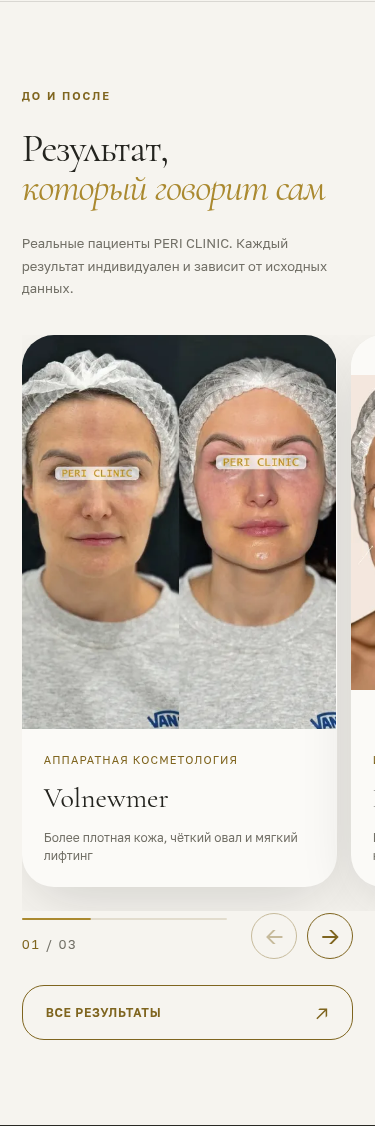
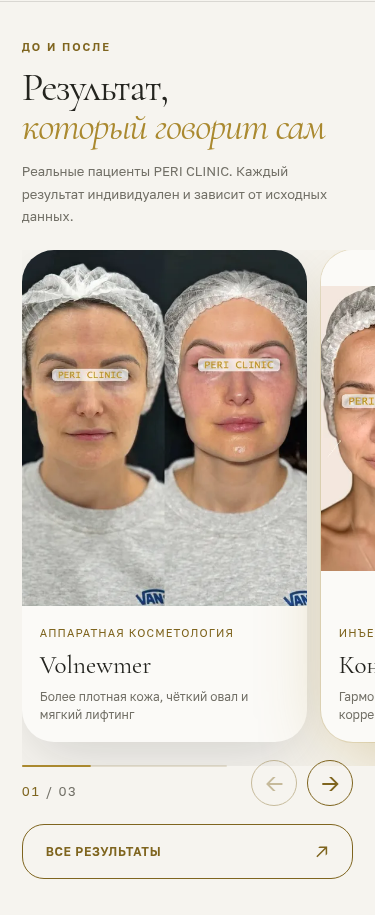
fix: compact mobile results cards and section spacing

diff --git a/docs/superpowers/specs/2026-09-12-results-mobile-design.md b/docs/superpowers/specs/2026-09-12-results-mobile-design.md
@@ -10,3 +10,7 @@
 - Десктопные изображения и сетка сохраняются. Ограничение 10 карточек применяется только на мобильном.
 
 Работа выполняется в `feat/results-mobile-carousel`, изолированный worktree `.worktrees/results-mobile`. Публикация сайта не входит в эту реализацию.
+
+## Уточнение: компактная версия
+
+По запросу пользователя уменьшены карточки и вертикальные интервалы только до 800 px. Ширина карточки — 76vw, максимум 320 px; фото по-прежнему целиком в рамке 4:5. Внутренние поля подписи — 18 px, минимальная высота подписи — 126 px. Внешние вертикальные поля блока — 36 px вместо 85 px; после метки «До и после» — 12 px, до описания — 14 px, между заголовочной частью и лентой — 22 px. Перед навигацией и кнопкой — 18 px. Размер кнопок стрелок сохранён для удобства касания.

diff --git a/docs/superpowers/plans/2026-09-12-results-mobile.md b/docs/superpowers/plans/2026-09-12-results-mobile.md
@@ -2,7 +2,7 @@
 
 1. Создать отдельную ветку/worktree от текущего состояния проекта; собрать исходную версию для сравнения.
 2. Добавить мобильные источники в `picture`, сохранив прежний десктопный `Image`.
-3. Изменить мобильные стили: карточка 84vw, шаг 14px, фото целиком в рамке 4:5, до 10 карточек.
+3. Изменить мобильные стили: карточка 76vw (максимум 320 px после уточнения), шаг 14px, фото целиком в рамке 4:5, до 10 карточек.
 4. Добавить мобильную навигацию с синхронизацией по прокрутке и изменению ширины, клавиатурой и reduced motion.
 5. Проверить сборку, типы, существующие тесты и браузерные сценарии.
 6. Снять скриншоты 320/375/390/430/800 px, сравнить десктоп 801/1024/1440 px с исходной сборкой. Проверить 10 и 11 записей через тестовую подмену HTML без записи в CMS.

diff --git a/docs/qa/results-mobile/README.md b/docs/qa/results-mobile/README.md
@@ -12,3 +12,7 @@
 `results-390.png` — первая работа, `results-390-second.png` — квадратный коллаж с полями, `results-390-last.png` — последняя работа. `checks.json` — сводка сценариев.
 
 В CMS сейчас три работы для главной. Для расширения ленты редактор выбирает до 10 опубликованных проверенных работ флагом «Показывать на главной» и задаёт порядок сортировки.
+
+## Проверка компактной версии
+
+После уменьшения карточек и отступов повторно прошли сборка всех 40 страниц и полный браузерный сценарий выше, включая 10/11 записей и сравнение десктопа с исходной сборкой. На экране 390 px: карточка 296 × 506 px, весь блок 906 px, внешние поля 36 px, интервал после метки 12 px, до карточек 22 px. Пропорции фотографий сохранены.
